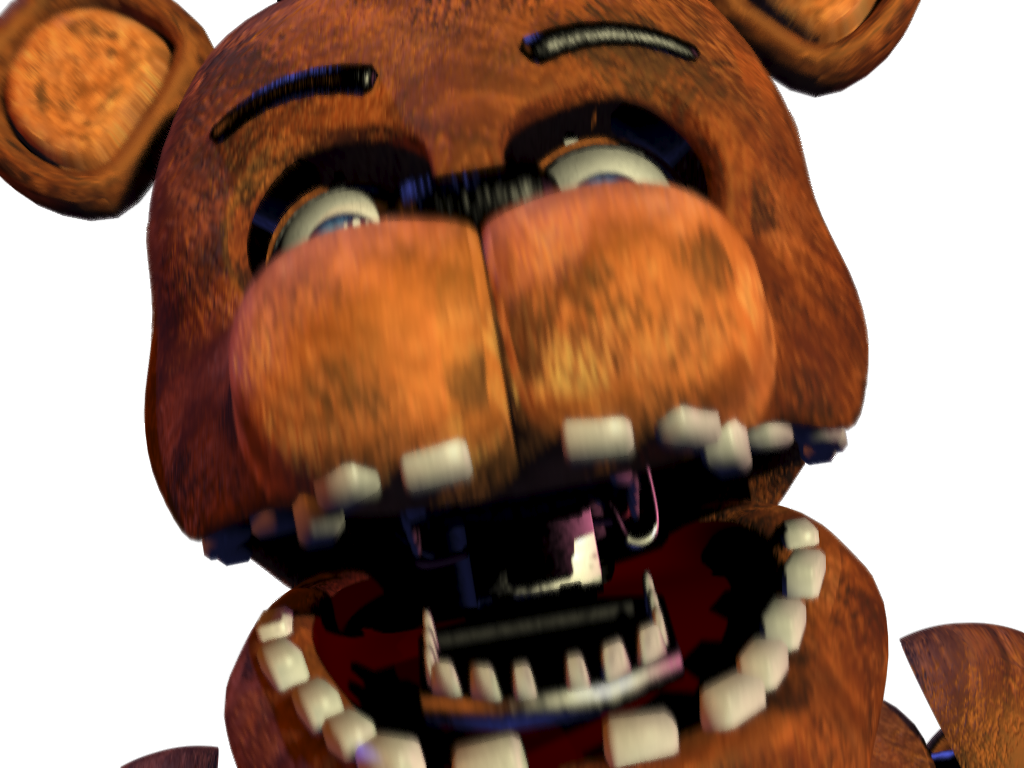
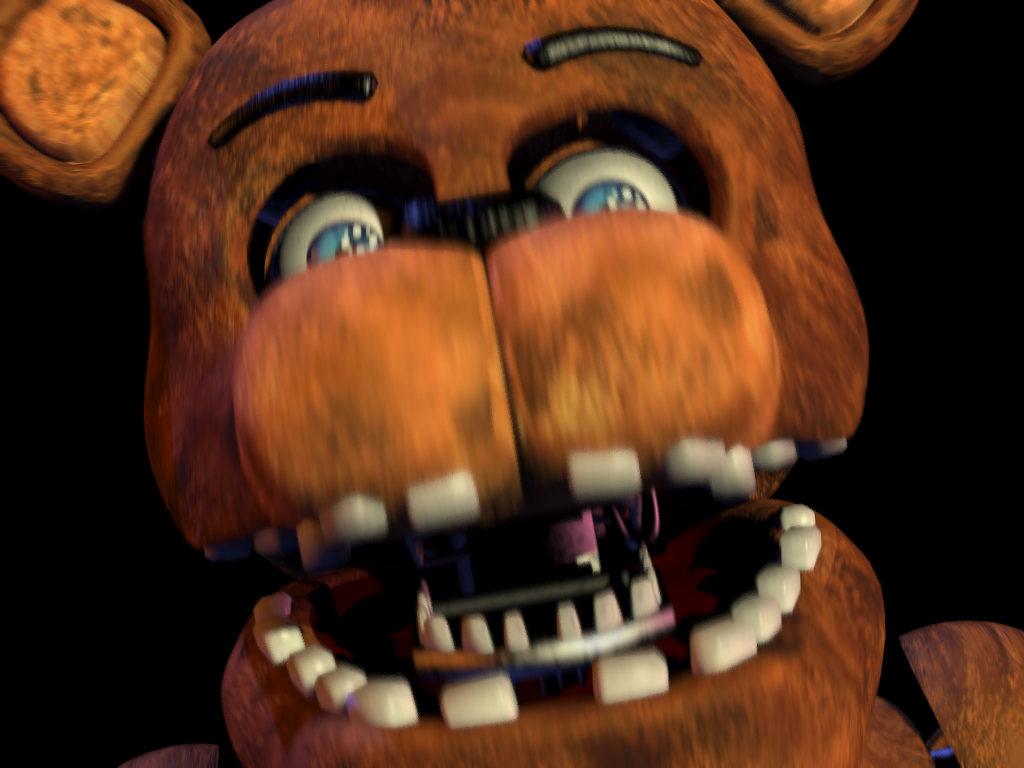
DONE

diff --git a/freddy_camera.py b/freddy_camera.py
@@ -1,16 +1,41 @@
+import threading
 from PIL import Image
+import numpy
+import pyvirtualcam
+import sounddevice
+
+SENSITIVITY = 2
+DEVICE_FILE = "/dev/video2"
+
+def block():
+    threading.Event().wait()
+
+width, height = Image.open("freddy_frames/1.png").size
 
 frames = [
-    Image.open(f"freddy_frames/{frame_num}.png").convert("RGB").resize((1280, 720))
+    numpy.array(Image.open(f"freddy_frames/{frame_num}.png"))
     for frame_num in range(1, 7)
 ]
 
-import colorsys
-import numpy
-import pyvirtualcam
-
-with pyvirtualcam.Camera(width=1280, height=720, fps=20, device="/dev/video2") as cam:
+with pyvirtualcam.Camera(width=width, height=height, fps=1, device="/dev/video2") as cam:
     print(f'Using virtual camera: {cam.device}')
-    while True:
-        cam.send(numpy.array(frames[0]))
-        cam.sleep_until_next_frame()
+
+    last_index = 0
+    cam.send(frames[last_index])
+
+    def process_sound(indata, _frames, _time, _status):
+        global last_index
+        volume_norm = numpy.linalg.norm(indata)
+        index = float(volume_norm) // SENSITIVITY
+        if index > last_index:
+            index = last_index + 1
+            if index == len(frames):
+                index -= 1
+        elif index < last_index:
+            index = last_index - 1
+        if index != last_index:
+            last_index = index
+            cam.send(frames[index])
+
+    sounddevice.InputStream(callback=process_sound, latency=0.1).start()
+    block()
